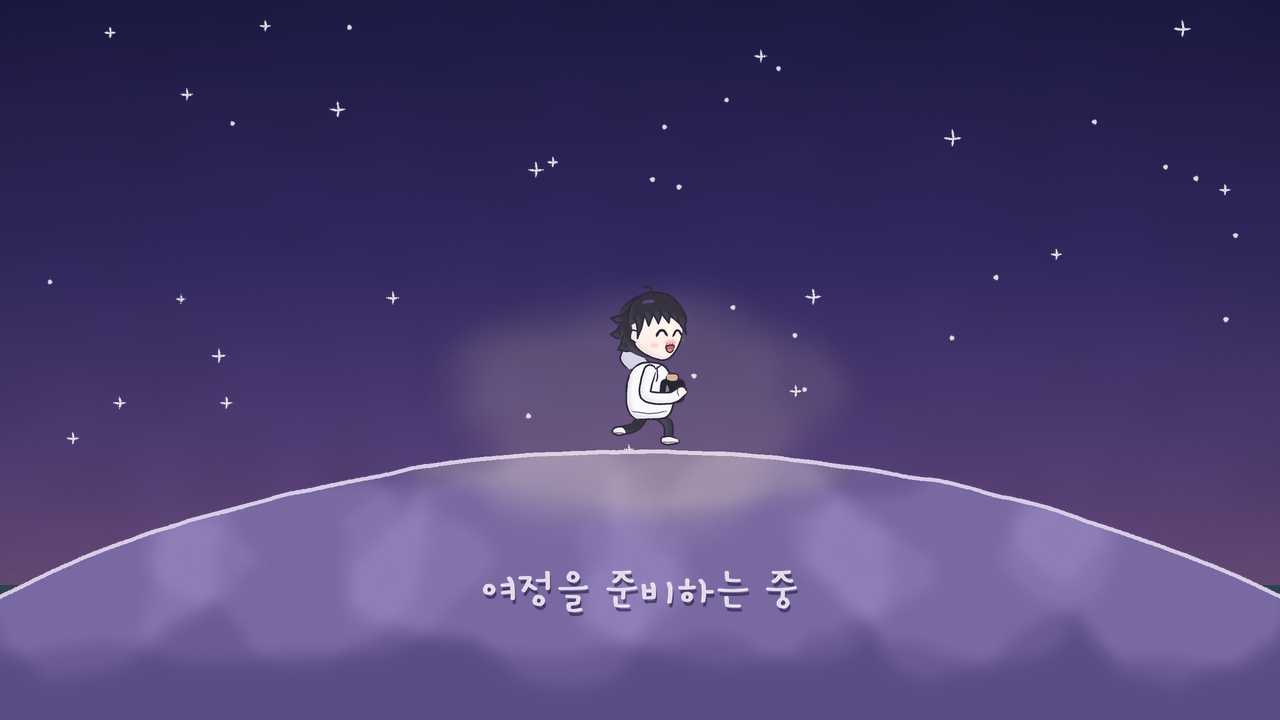
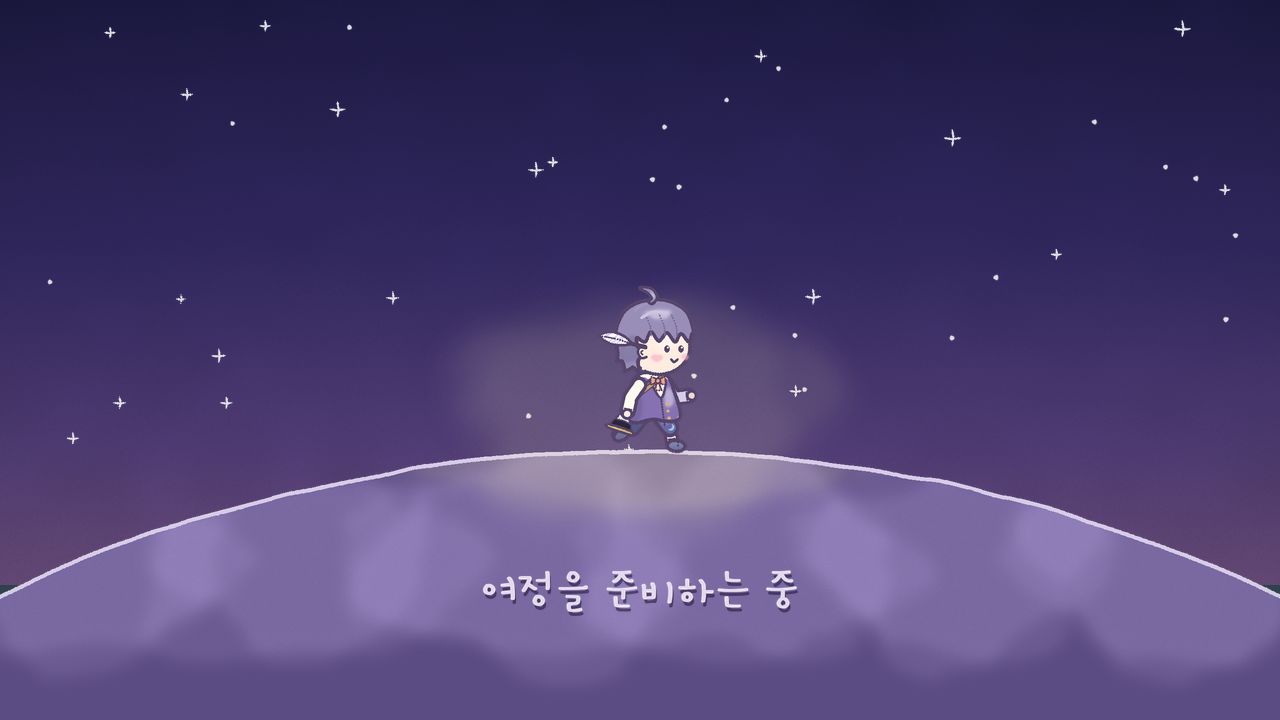
로딩 화면 주인공도 새 그림(boy_line)으로 교체

Changed region(s): [[0.4688, 0.3972, 0.5625, 0.6417]]

diff --git a/tools/gen_prepare.py b/tools/gen_prepare.py
@@ -154,6 +154,7 @@ def ground():
 
 # ================================================================ 소년 (tools/boy_anime.py)
 from boy_anime import boy, FEET  # noqa: E402
+import boy_line  # noqa: E402
 
 
 def shadow():
@@ -187,10 +188,8 @@ def loading():
     sh.stroke(hill, 3.6, (230, 220, 245), 230, taper=False)
     sh.wash(640, 410, 190, 120, (255, 240, 200), alpha=60, layers=3, blur=12)   # 은은한 빛
     base.alpha_composite(sh.result())
-    k = 0.7
-    b = boy(0)
-    b = b.resize((int(b.width * k), int(b.height * k)), Image.LANCZOS)
-    base.alpha_composite(b, (640 - b.width // 2 + 10, 452 - int(FEET * k)))
+    b = boy_line.draw_frame(boy_line.POSES[0], 700, 0)     # 준비 화면과 같은 주인공 (1:1)
+    base.alpha_composite(b, (640 - b.width // 2 + 10, 452 - boy_line.FEET))
     t = Sheet(W, H, seed=502)
     f = pastel.hand_font(46)
     t.ink_text('여정을 준비하는 중', f, 642, 594, (34, 28, 60), 150, anchor='mm')
